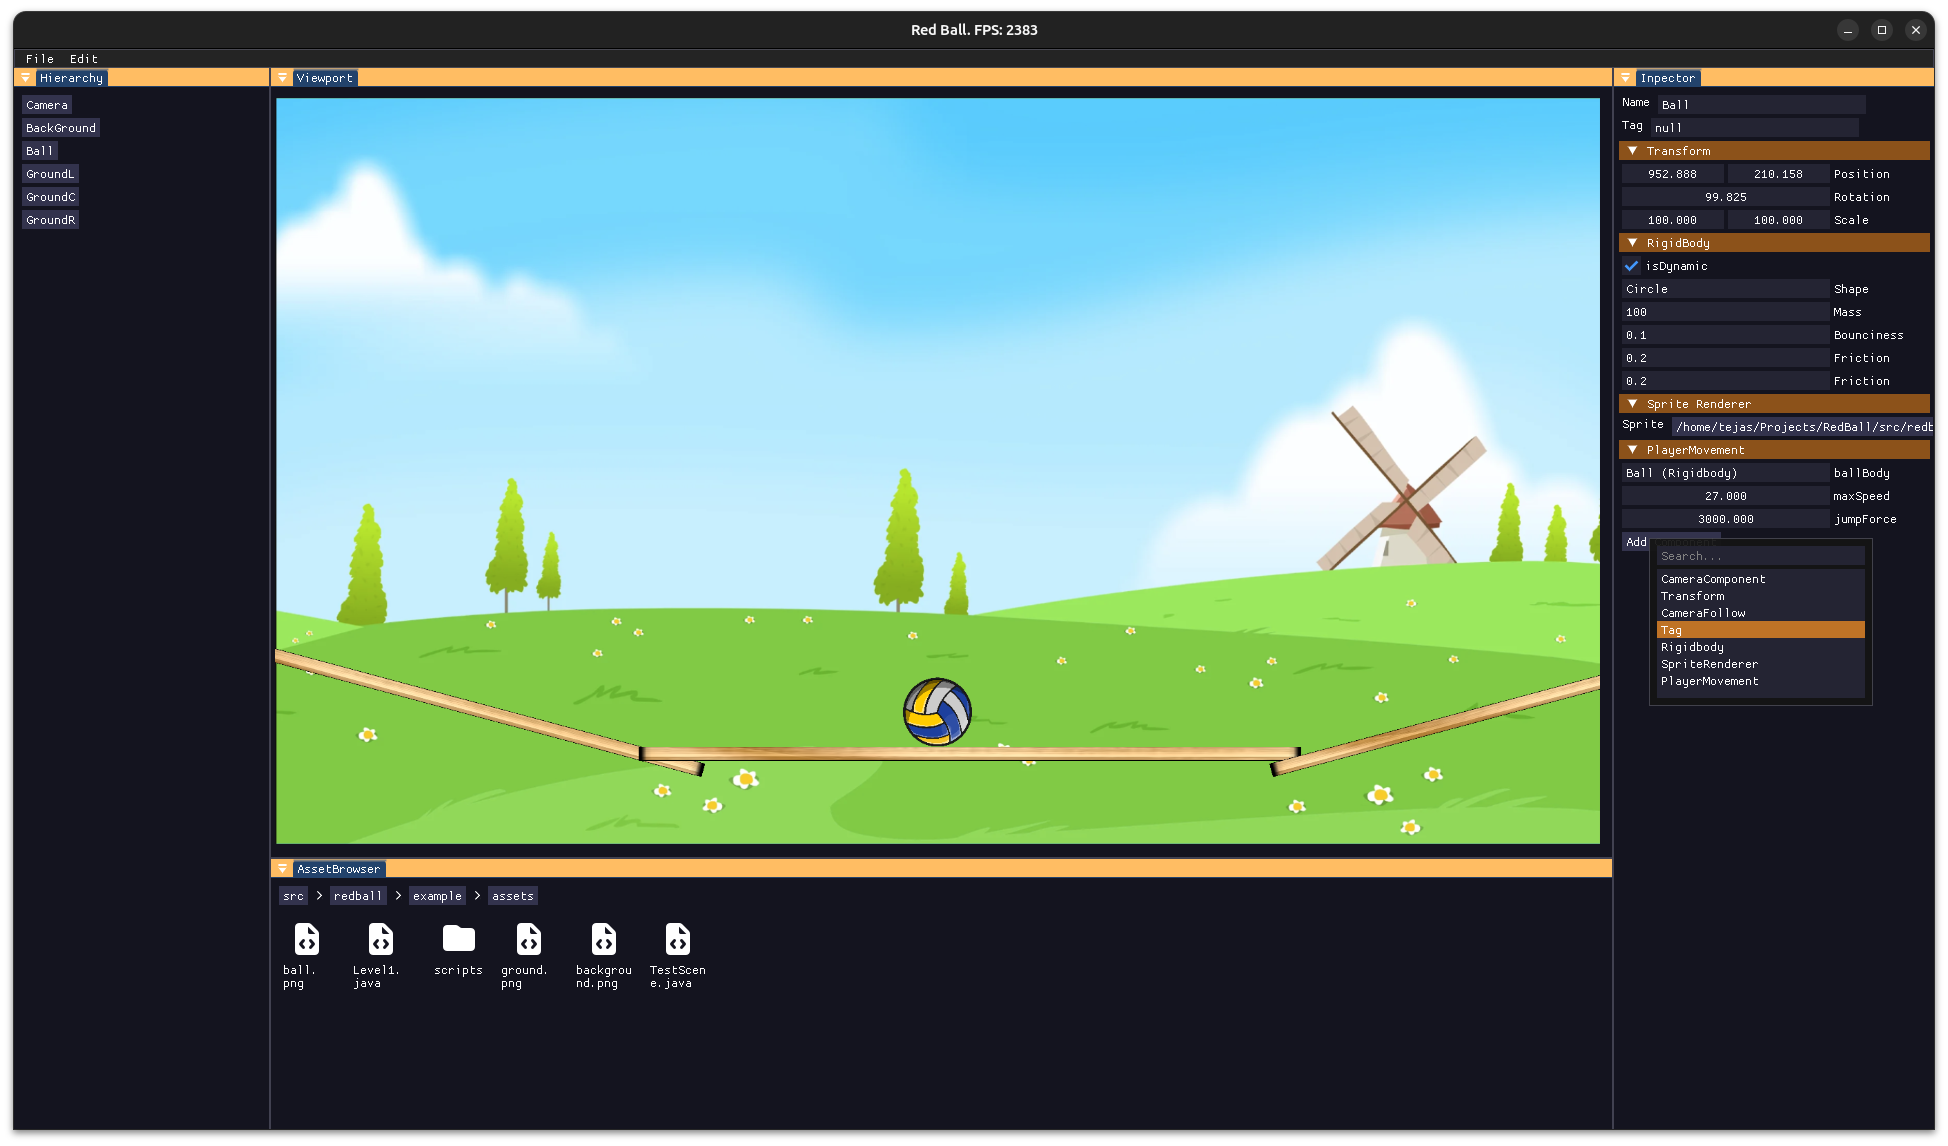
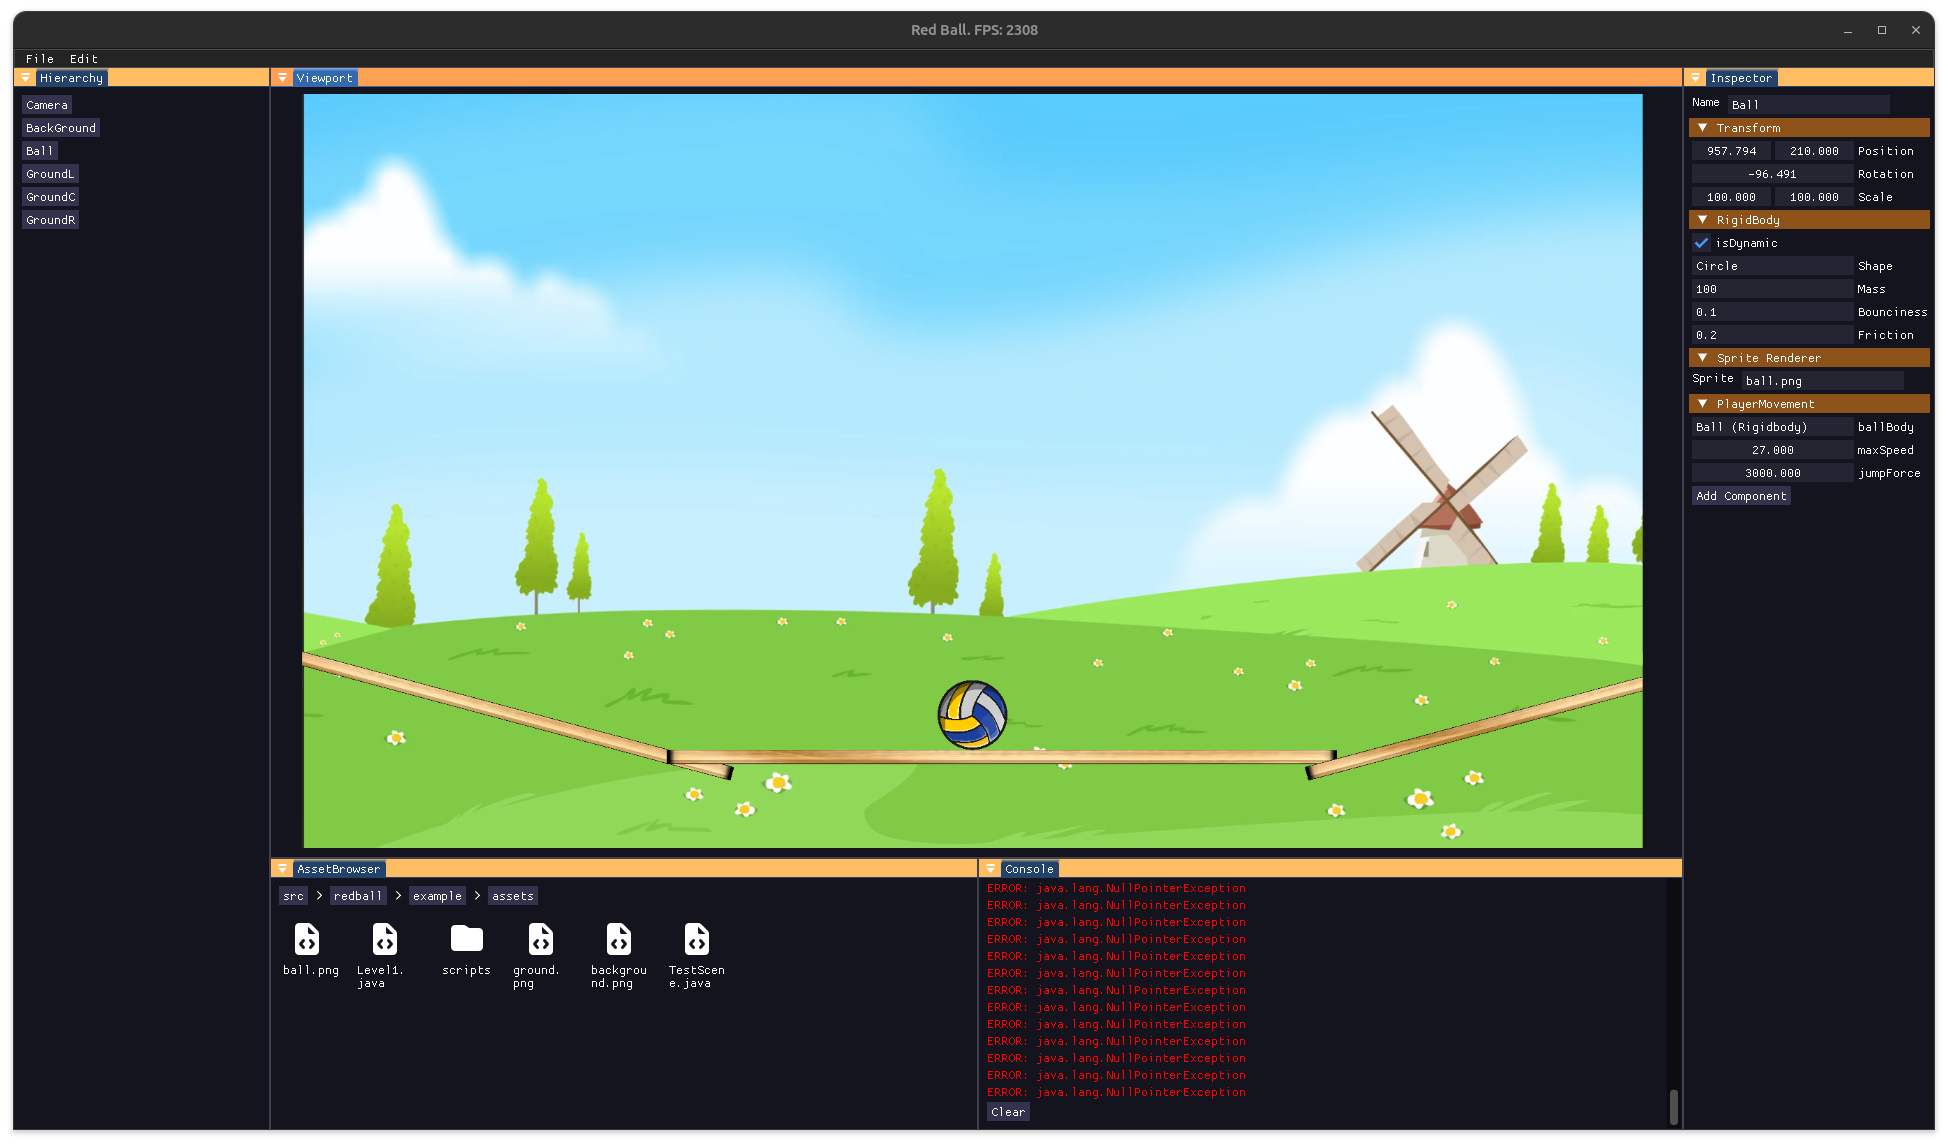
added remove component option

diff --git a/src/redball/engine/core/EditorLayer.java b/src/redball/engine/core/EditorLayer.java
@@ -12,6 +12,7 @@ import org.reflections.Reflections;
 import redball.engine.entity.ECSWorld;
 import redball.engine.entity.GameObject;
 import redball.engine.entity.components.*;
+import redball.engine.entity.components.Component;
 import redball.engine.renderer.RenderManager;
 import redball.engine.renderer.texture.Texture;
 
@@ -20,9 +21,7 @@ import java.lang.reflect.Constructor;
 import java.lang.reflect.Field;
 import java.lang.reflect.InvocationTargetException;
 import java.lang.reflect.Modifier;
-import java.util.ArrayDeque;
-import java.util.Arrays;
-import java.util.Set;
+import java.util.*;
 
 import static org.lwjgl.glfw.GLFW.glfwSetWindowShouldClose;
 import static org.reflections.Reflections.log;
@@ -83,9 +82,12 @@ public class EditorLayer {
         // needs fix
         Reflections reflections = new Reflections("redball");
         subclasses = reflections.getSubTypesOf(Component.class);
-        componentList = new String[subclasses.size()];
+        componentList = new String[subclasses.size()-1];
         int index = 0;
         for (Class<? extends Component> cls : subclasses) {
+            if (cls.isAssignableFrom(Transform.class)) {
+                continue;
+            }
             componentList[index] = cls.getSimpleName();
             index++;
         }
@@ -162,7 +164,7 @@ public class EditorLayer {
 
         renderViewPort();
 
-        ImGui.begin("Inpector");
+        ImGui.begin("Inspector");
         if (selected != null) {
             GameObject go = ECSWorld.findGameObjectByName(selected);
             ImGui.text("Name");
@@ -170,13 +172,17 @@ public class EditorLayer {
             ImGui.inputText("##Name", new ImString(go.getName()));
             tagComponent(go);
             transformComponent(go);
-            rigidbodyComponent(go);
+            rigidBodyComponent(go);
             spriteRendererComponent(go);
-            for (Component c : go.getComponents()) {
-                if (!(c instanceof Rigidbody) && !(c instanceof Transform) && !(c instanceof Tag) && !(c instanceof SpriteRenderer)) {
-                    customComponents(go.getComponent(c.getClass()));
+
+            ListIterator<Component> componentIterator = go.getComponents().listIterator();
+            while (componentIterator.hasNext()) {
+                Component c = componentIterator.next();
+                if (!(c instanceof Rigidbody) && !(c instanceof Transform) && !(c instanceof Tag) && !(c instanceof SpriteRenderer) && c != null) {
+                    customComponents(go.getComponent(c.getClass()), componentIterator);
                 }
             }
+
             addComponent(go);
             if (ImGui.beginDragDropTarget()) {
                 Object payload = ImGui.acceptDragDropPayload("String");
@@ -320,6 +326,7 @@ public class EditorLayer {
             }
             ImGui.endPopup();
         }
+        selectedIndex = -1;
     }
 
 
@@ -359,6 +366,19 @@ public class EditorLayer {
         SpriteRenderer spriteRenderer = go.getComponent(SpriteRenderer.class);
         if (spriteRenderer != null) {
             if (ImGui.collapsingHeader("Sprite Renderer", ImGuiTreeNodeFlags.DefaultOpen)) {
+                boolean rightClicked = ImGui.isItemHovered() && ImGui.isMouseClicked(1);
+                if (rightClicked) {
+                    ImGui.openPopup("RemoveSpriteRendererPopup");
+                }
+
+                if (ImGui.beginPopup("RemoveSpriteRendererPopup")) {
+                    if (ImGui.menuItem("Remove Component")) {
+                        go.removeComponent(SpriteRenderer.class);
+                        RenderManager.rebuild();
+                        ImGui.closeCurrentPopup();
+                    }
+                    ImGui.endMenu();
+                }
                 ImGui.text("Sprite");
                 ImGui.sameLine();
                 String label = (spriteRenderer != null) ? spriteName : "None ( Sprite Renderer )";
@@ -376,23 +396,53 @@ public class EditorLayer {
         }
     }
 
-    private void rigidbodyComponent(GameObject go) {
+    private void rigidBodyComponent(GameObject go) {
         Rigidbody rb = go.getComponent(Rigidbody.class);
         if (rb != null) {
             if (ImGui.collapsingHeader("RigidBody", ImGuiTreeNodeFlags.DefaultOpen)) {
+                if (ImGui.beginDragDropSource()) {
+                    ImGui.setDragDropPayload("GAME_OBJECT", go);
+                    ImGui.text(go.getName());
+                    ImGui.endDragDropSource();
+                }
+                boolean rightClicked = ImGui.isItemHovered() && ImGui.isMouseClicked(1);
+                if (rightClicked) {
+                    ImGui.openPopup("RemoveRigidBodyPopup");
+                }
+
+                if (ImGui.beginPopup("RemoveRigidBodyPopup")) {
+                    if (ImGui.menuItem("Remove Component")) {
+                        go.removeComponent(rb.getClass());
+                        RenderManager.rebuild();
+                        ImGui.closeCurrentPopup();
+                    }
+                    ImGui.endMenu();
+                }
+
                 ImGui.checkbox("isDynamic", rb.getBodyType() == BodyType.DYNAMIC ? true : false);
                 ImGui.inputText("Shape", new ImString(rb.getBody().getFixture(0).getShape() instanceof Rectangle ? "Rectangle" : "Circle"));
                 ImGui.inputText("Mass", new ImString(String.valueOf(rb.getMass())));
                 ImGui.inputText("Bounciness", new ImString(String.valueOf(rb.getBounce())));
                 ImGui.inputText("Friction", new ImString(String.valueOf(rb.getFriction())));
-                ImGui.inputText("Friction", new ImString(String.valueOf(rb.getFriction())));
             }
         }
     }
 
-    private void customComponents(Component component) {
+    private void customComponents(Component component, ListIterator<Component> iterator) {
         Class<?> clazz = component.getClass();
         if (ImGui.collapsingHeader(clazz.getSimpleName(), ImGuiTreeNodeFlags.DefaultOpen)) {
+            boolean rightClicked = ImGui.isItemHovered() && ImGui.isMouseClicked(1);
+            if (rightClicked) {
+                ImGui.openPopup("Remove" + clazz.getSimpleName() + "Popup");
+            }
+
+            if (ImGui.beginPopup("Remove" + clazz.getSimpleName() + "Popup")) {
+                if (ImGui.menuItem("Remove Component")) {
+                    iterator.remove();
+                    ImGui.closeCurrentPopup();
+                }
+                ImGui.endMenu();
+            }
             for (Field field : clazz.getDeclaredFields()) {
                 if (!Modifier.isPublic(field.getModifiers())) continue;
                 try {
@@ -551,7 +601,6 @@ public class EditorLayer {
                 ImGui.textWrapped(name);
             }
 
-
             if (clicked) {
                 if (asset.isDirectory()) {
                     currentFolder += "/" + name;
@@ -582,9 +631,6 @@ public class EditorLayer {
 
     private void renderConsole() {
         ImGui.begin("Console");
-        if (ImGui.button("Clear")) {
-            LogCapture.clear();
-        }
         ArrayDeque<LogLine> lines = LogCapture.getLogs();
         for (LogLine line : lines) {
             if (line.isError()) {
@@ -595,6 +641,9 @@ public class EditorLayer {
             else {
                 ImGui.text(line.getMessage());
             }
+        }
+        if (ImGui.button("Clear")) {
+            LogCapture.clear();
         }
         ImGui.end();
     }

diff --git a/src/redball/engine/core/LogCapture.java b/src/redball/engine/core/LogCapture.java
@@ -42,7 +42,6 @@ public class LogCapture {
     }
 
     public static void start() {
-
         System.setOut(captureLog(false));
         System.setErr(captureLog(true));
     }
